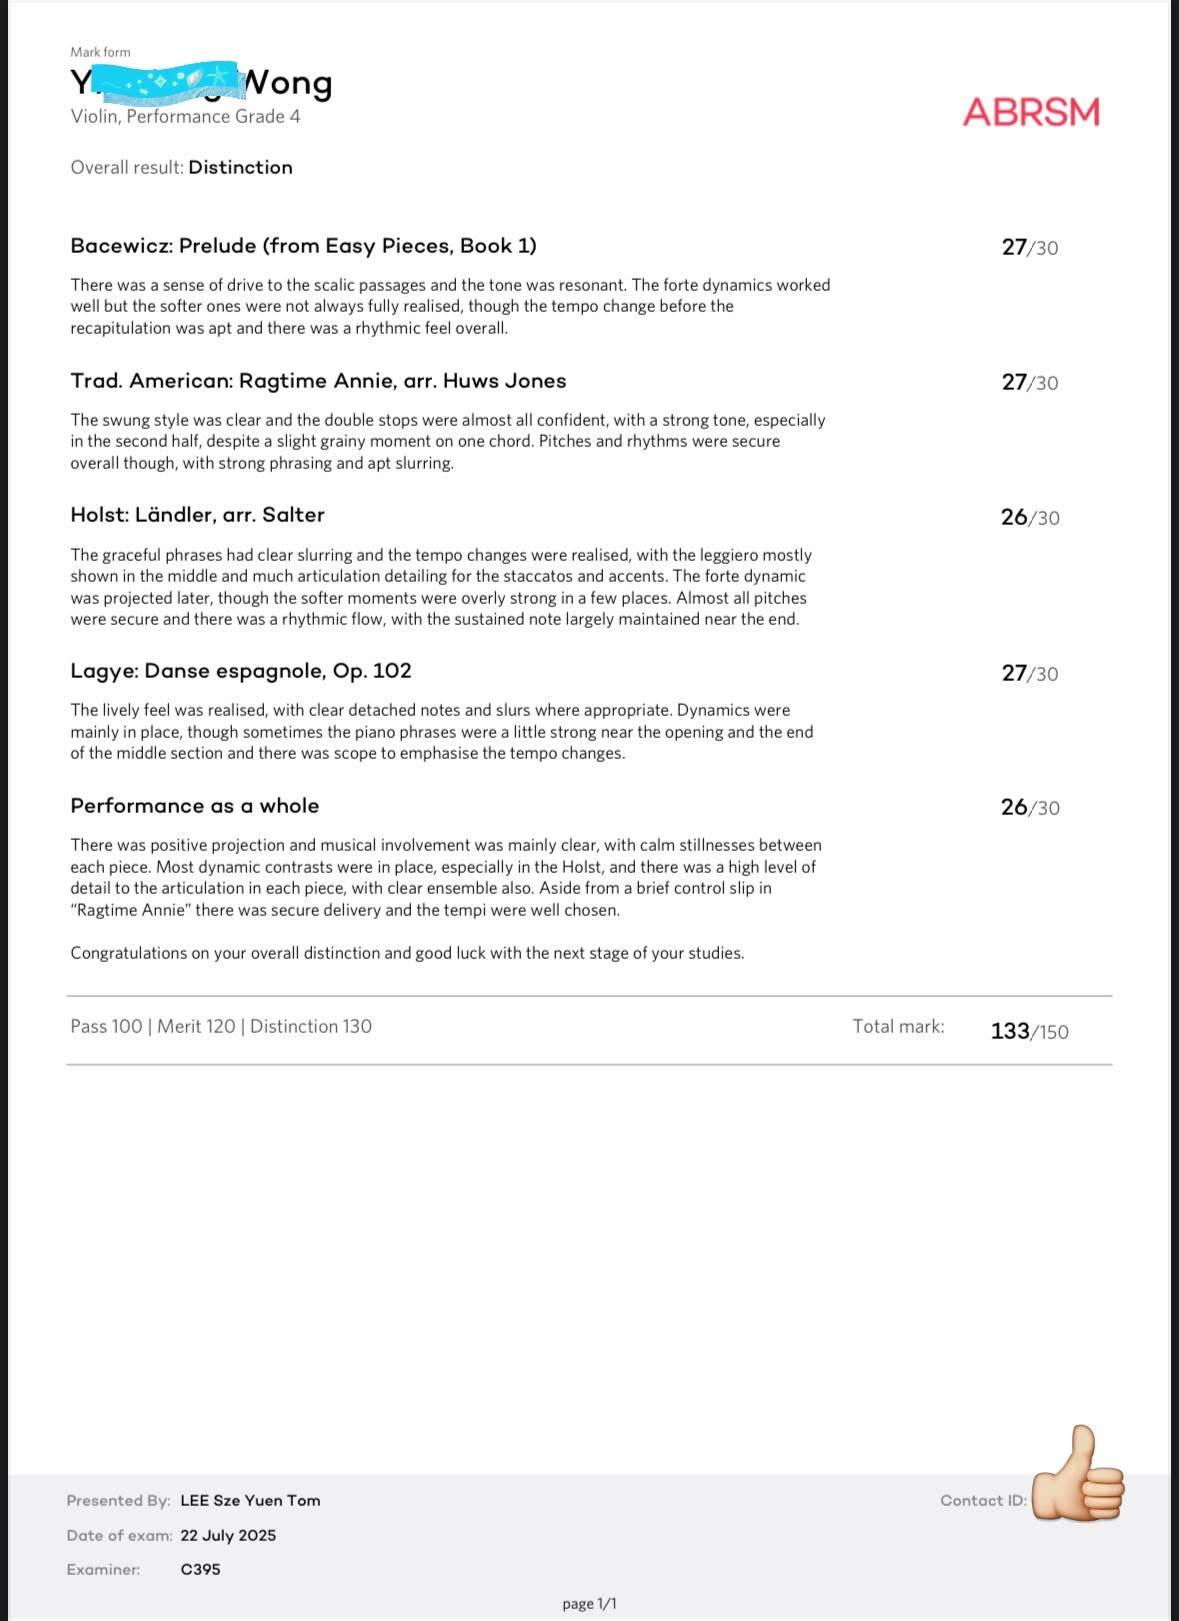
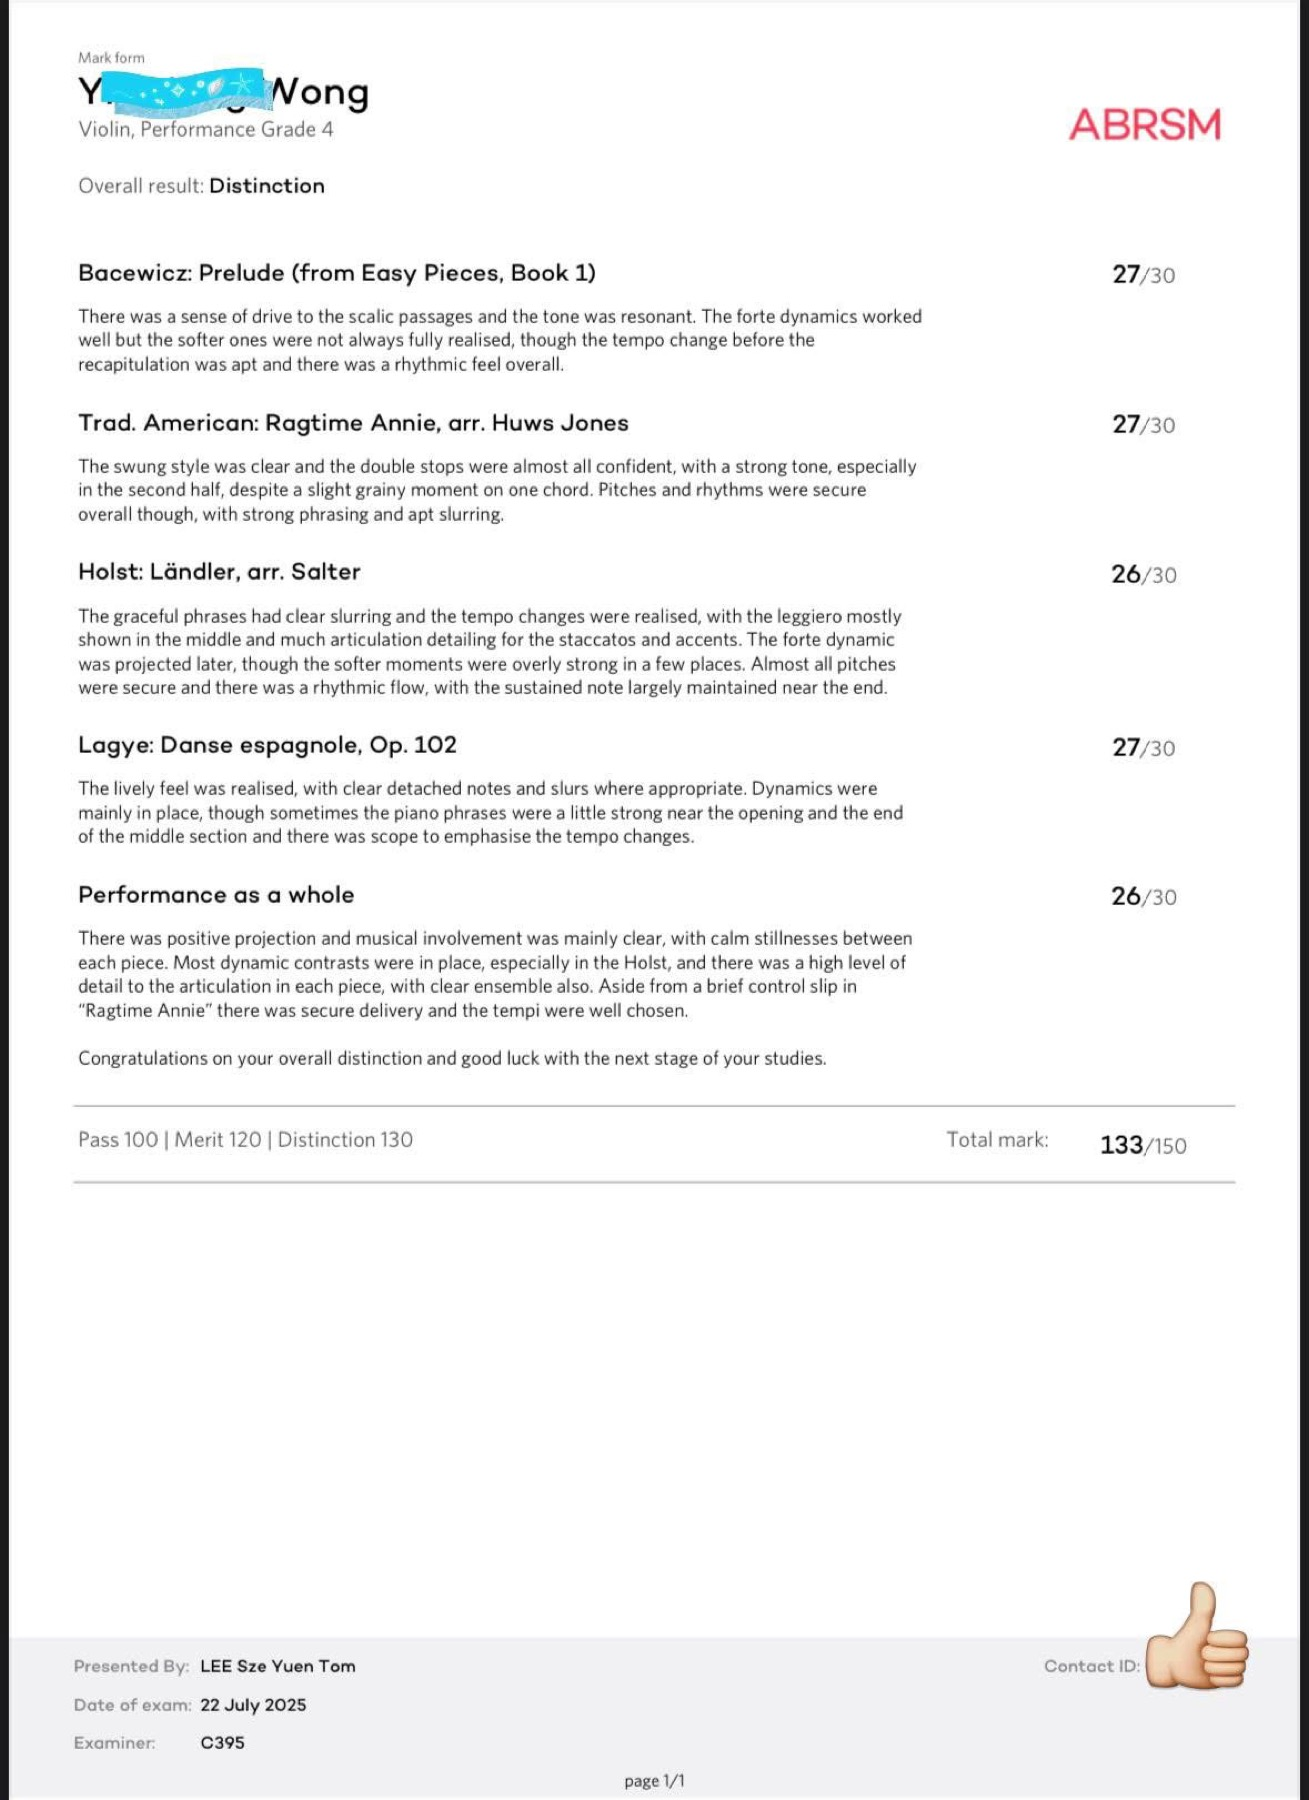
Optimize images for faster mobile loading

diff --git a/index.html b/index.html
@@ -530,7 +530,7 @@
                 >
                   <img
                     class="cert-card__img"
-                    src="assets/JSMA2026.png"
+                    src="assets/JSMA2026.jpg"
                     alt="Joint School Music Competition (JSMA) 2026"
                     width="700"
                     height="990"
@@ -661,7 +661,7 @@
                 >
                   <img
                     class="cert-card__img"
-                    src="assets/JSMA2026.png"
+                    src="assets/JSMA2026.jpg"
                     alt="Joint School Music Competition (JSMA) 2026"
                     width="700"
                     height="990"
